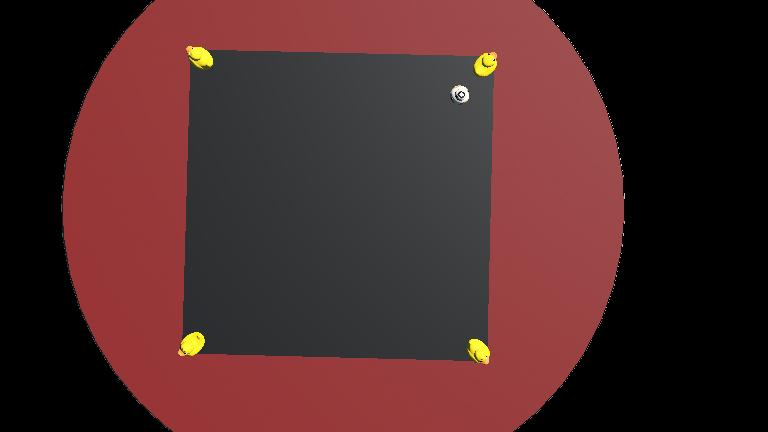
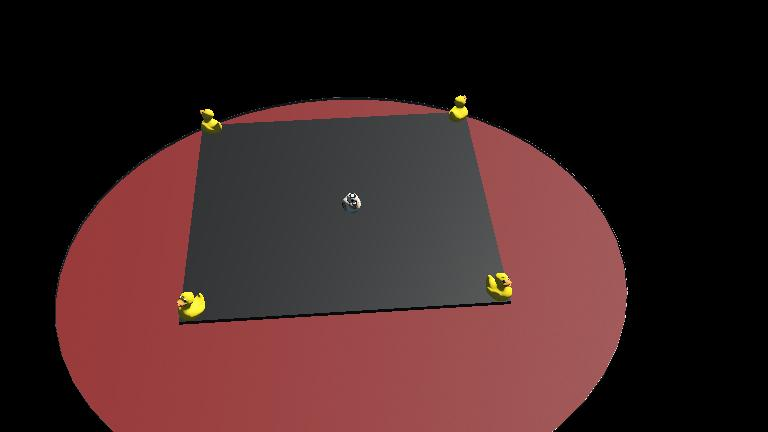
robot goes to position 0 :)

diff --git a/webots/controllers/my_controller/FlofrostsSuperBustedRobotControllerOfDoom.py b/webots/controllers/my_controller/FlofrostsSuperBustedRobotControllerOfDoom.py
@@ -1,9 +1,14 @@
 import Fmath
 from controller import Robot,Motor,GPS,Accelerometer
 
+arenaLim1 = [-4, -4]
+arenaLim2 = [ 4,  4]
+
 class FlofrostsSuperDuperRobotOfEpicnessThatWillTotallyWinTheSUperSmashBrosGame(Robot):
     
     __velocipy = Fmath.ComplexN(3,0)
+    __currentPos = Fmath.ComplexN(0,0)
+    __targetPos = Fmath.ComplexN(0,0)
 
     def __init__(self):
         super().__init__()
@@ -14,12 +19,21 @@ class FlofrostsSuperDuperRobotOfEpicnessThatWillTotallyWinTheSUperSmashBrosGame(
         self.__yawMotor.setPosition(float("inf"))
 
         self.__gps = GPS("gps")
-        self.__gps.enable(100)
+        self.__gps.enable(int(self.getBasicTimeStep()))
         
         self.__accelerometer = Accelerometer("body accelerometer")
-        self.__accelerometer.enable(100)
+        self.__accelerometer.enable(int(self.getBasicTimeStep()))
+
+    def __str__(self) -> str:
+        return f"X: {self.__gps.value[0]:.2f}, Z: {self.__gps.value[1]:.2f}"
+
 
     def proceed(self):
+        # Update position according to gps
+        self.__currentPos = Fmath.ComplexN(self.__gps.value[0], self.__gps.value[1])
+        
+        self.__velocipy = self.__currentPos - self.__targetPos
+
         self.__pitchMotor.setVelocity(self.__velocipy.modulus)
         self.__yawMotor.setVelocity(self.__velocipy.angle)
-        print(f"GPS : {self.__gps.value}, Accel : {self.__accelerometer.value}")
+        print(self)

diff --git a/webots/controllers/my_controller/Fmath.py b/webots/controllers/my_controller/Fmath.py
@@ -22,6 +22,9 @@ class ComplexN():
     
     def __add__(self, other):
         return ComplexN(self.real + other.real, self.imaginary + other.imaginary)
+    
+    def __sub__(self, other):
+        return ComplexN(self.real - other.real, self.imaginary - other.imaginary)
 
     @property
     def modulus(self):
